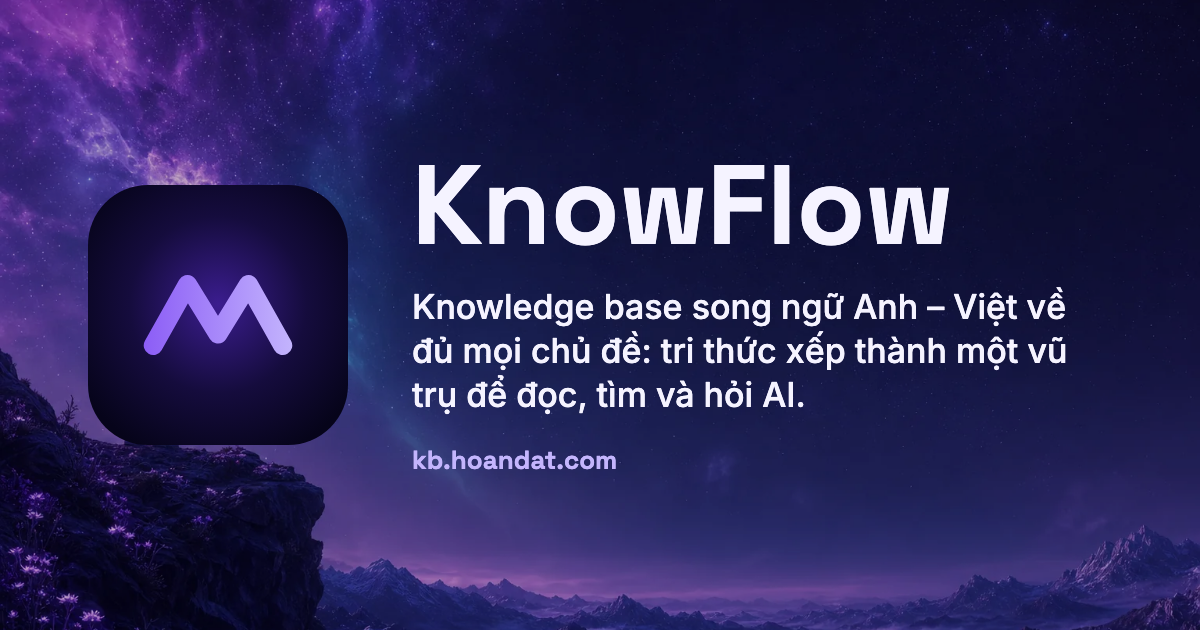
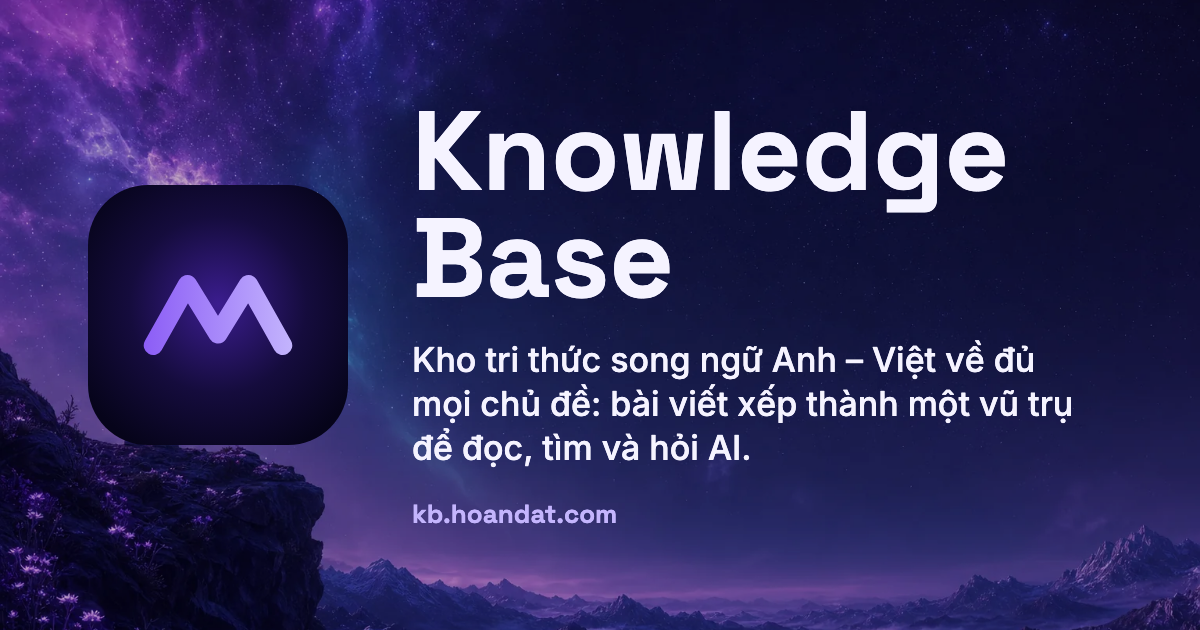
feat: call the app Knowledge Base instead of KnowFlow
The owner found the KnowFlow name awkward; the app now goes by a plain
"Knowledge Base" (short name "Knowledge"). The mark stays until it is redrawn.
Sentences that would repeat the name ("Knowledge Base · knowledge base") now say
"kho tri thức" / "library", and the Copilot prompts no longer name the app.

Changed region(s): [[0.3392, 0.181, 0.8942, 0.754], [0.3392, 0.7841, 0.5242, 0.8444]]

diff --git a/apps/web/src/pages/office-messages.ts b/apps/web/src/pages/office-messages.ts
@@ -70,7 +70,7 @@ export const officeVi = {
   'file.errSub.too-large': 'Tối đa {max} MB mỗi tệp',
   'file.errSub.unsupported-type': 'Chỉ nhận docx, xlsx, pptx, pdf, md',
   'file.errSub.wrong-content': 'Tên tệp và nội dung không khớp',
-  'file.errSub.encrypted': 'KnowFlow không mở được tệp đã khoá',
+  'file.errSub.encrypted': '{app} không mở được tệp đã khoá',
   'file.errSub.network': 'Kết nối bị ngắt khi đang gửi',
   'file.errSub.other': 'Máy chủ trả lỗi',
   'file.fix.network': 'kiểm tra mạng rồi bấm Thử lại',
@@ -95,7 +95,7 @@ export const officeVi = {
   'import.none.title': 'Không có tệp nào ở trạng thái này',
   'import.none.text': 'Chọn bộ lọc khác hoặc thả thêm tệp bên phải.',
   'import.empty.title': 'Chưa nhập tệp nào',
-  'import.empty.text': 'Thả tệp vào khung bên phải để KnowFlow đọc và lập chỉ mục.',
+  'import.empty.text': 'Thả tệp vào khung bên phải để {app} đọc và lập chỉ mục.',
   'import.loading': 'Đang tải danh sách tệp…',
   'import.failedLoad': 'Chưa tải được danh sách tệp.',
   'import.offline': 'Đang offline · danh sách sẽ cập nhật khi có mạng.',
@@ -144,7 +144,7 @@ export const officeVi = {
   'import.sugTag': '{tag}',
   'import.sugFailed': 'Chưa áp dụng được gợi ý. Thử lại.',
   'import.indexNoteTitle': 'Về bước "Lập chỉ mục":',
-  'import.indexNote': 'KnowFlow không tạo vector embedding. Tệp được lập chỉ mục từ khoá (phân biệt dấu) và Jev đọc để tìm theo nghĩa khi bạn hỏi.',
+  'import.indexNote': '{app} không tạo vector embedding. Tệp được lập chỉ mục từ khoá (phân biệt dấu) và Jev đọc để tìm theo nghĩa khi bạn hỏi.',
 
   'fail.too-large': 'Tệp quá lớn',
   'fail.encrypted': 'Không đọc được cấu trúc: tệp có mật khẩu.',
@@ -327,7 +327,7 @@ export const officeEn: Record<OfficeMessageKey, string> = {
   'file.errSub.too-large': 'At most {max} MB per file',
   'file.errSub.unsupported-type': 'Only docx, xlsx, pptx, pdf, md',
   'file.errSub.wrong-content': 'The name and the content do not match',
-  'file.errSub.encrypted': 'KnowFlow cannot open a locked file',
+  'file.errSub.encrypted': '{app} cannot open a locked file',
   'file.errSub.network': 'The connection dropped while sending',
   'file.errSub.other': 'The server answered with an error',
   'file.fix.network': 'check the connection, then press Retry',
@@ -352,7 +352,7 @@ export const officeEn: Record<OfficeMessageKey, string> = {
   'import.none.title': 'No file in this state',
   'import.none.text': 'Pick another filter or drop more files on the right.',
   'import.empty.title': 'Nothing imported yet',
-  'import.empty.text': 'Drop files on the right for KnowFlow to read and index them.',
+  'import.empty.text': 'Drop files on the right for {app} to read and index them.',
   'import.loading': 'Loading your files…',
   'import.failedLoad': 'Could not load your files.',
   'import.offline': 'Offline · the list updates once you are back online.',
@@ -401,7 +401,7 @@ export const officeEn: Record<OfficeMessageKey, string> = {
   'import.sugTag': '{tag}',
   'import.sugFailed': 'Could not apply the suggestion. Try again.',
   'import.indexNoteTitle': 'About "Index":',
-  'import.indexNote': 'KnowFlow makes no vector embeddings. Files are indexed by keyword (accent-aware) and Jev reads them to search by meaning when you ask.',
+  'import.indexNote': '{app} makes no vector embeddings. Files are indexed by keyword (accent-aware) and Jev reads them to search by meaning when you ask.',
 
   'fail.too-large': 'The file is too large',
   'fail.encrypted': 'Could not read the structure: the file has a password.',

diff --git a/apps/web/e2e/parity-screens.ts b/apps/web/e2e/parity-screens.ts
@@ -150,7 +150,8 @@ export const PARITY_SCREENS: readonly ParityScreen[] = [
   { board: 'F03-Keys', path: '/settings/keys', signedIn: true, status: 'built', mocks: ['keys-f03'], clock: F03_CLOCK },
   { board: 'F04-Translate', path: `/d/${F04_DOCUMENT_ID}/translate`, signedIn: true, status: 'built', mocks: ['translate-f04'] },
   // Copilot (C14) asked from the DHCP text about the Space, its answer finished; its eight states (F02) side by side.
-  { board: 'C14-Copilot', path: C14_PATH, signedIn: true, status: 'built', mocks: ['copilot-c14'], clock: F03_CLOCK, waitFor: '[data-id="copilot-screen"][data-state="done"]' },
+  // maxDiff: the app's name (Knowledge Base) is longer than the board's KnowFlow, docs/mock-deviations.md.
+  { board: 'C14-Copilot', path: C14_PATH, signedIn: true, status: 'built', maxDiff: 0.035, mocks: ['copilot-c14'], clock: F03_CLOCK, waitFor: '[data-id="copilot-screen"][data-state="done"]' },
   // The Graph of Networking from the seed's documents and links, DHCP picked (its neighbours lit, the panel open).
   // maxDiff: d3-force places the real graph's nodes, not the board's hand-placed 20; docs/mock-deviations.md.
   {
@@ -196,7 +197,8 @@ export const PARITY_SCREENS: readonly ParityScreen[] = [
   // signed out (H02).
   // maxDiff: no review gate since 07/11/2026 (docs/mock-deviations.md).
   { board: 'C04-Publish', path: `/d/${PUBLISH_DOCUMENT_ID}/publish`, signedIn: true, status: 'built', maxDiff: 0.045, mocks: ['publish-c04'], waitFor: '[data-id="publish-card"]' },
-  { board: 'C05-Preview', path: `/d/${PUBLISH_DOCUMENT_ID}/preview`, signedIn: true, status: 'built', mocks: ['publish-c04'], waitFor: '[data-id="preview-stage"]' },
+  // maxDiff: the app's name (Knowledge Base) is longer than the board's KnowFlow, docs/mock-deviations.md.
+  { board: 'C05-Preview', path: `/d/${PUBLISH_DOCUMENT_ID}/preview`, signedIn: true, status: 'built', maxDiff: 0.035, mocks: ['publish-c04'], waitFor: '[data-id="preview-stage"]' },
   // maxDiff: the people's orbs are deeper than the board's so their white initials read AA; docs/mock-deviations.md.
   { board: 'C18-Share', path: `/d/${C13_DHCP_ID}/share`, signedIn: true, status: 'built', maxDiff: 0.035, mocks: ['share-c18'], clock: C18_CLOCK, waitFor: '[data-id="share-history"]' },
   // maxDiff: the sections are a list of full names, not the board's row of chips; docs/mock-deviations.md.
@@ -227,6 +229,8 @@ export const PARITY_SCREENS: readonly ParityScreen[] = [
     path: `/journey/${JOURNEY_ID}/edit`,
     signedIn: true,
     status: 'built',
+    // maxDiff: the app's name (Knowledge Base) is longer than the board's KnowFlow, docs/mock-deviations.md.
+    maxDiff: 0.035,
     mocks: ['journey-c07'],
     click: '[aria-label="Chọn bước 2"]',
     waitFor: '[data-id="journey-jev"][data-state="ready"] ~ [data-id="journey-pool"][data-state="ready"]',
@@ -240,7 +244,8 @@ export const PARITY_SCREENS: readonly ParityScreen[] = [
   // Boards that show every state of a screen side by side, built from the screens' own components.
   { board: 'S02-Login', path: '/dev/kit/sign-in', signedIn: false, status: 'built' },
   { board: 'X02-Errors', path: '/dev/kit/errors', signedIn: false, status: 'built' },
-  { board: 'F02-CopilotStates', path: '/dev/kit/copilot-states', signedIn: false, status: 'built' },
+  // maxDiff: the app's name (Knowledge Base) is longer than the board's KnowFlow, docs/mock-deviations.md.
+  { board: 'F02-CopilotStates', path: '/dev/kit/copilot-states', signedIn: false, status: 'built', maxDiff: 0.035 },
   // The documentation boards.
   { board: 'Z01-Sitemap', path: '/dev/kit/sitemap', signedIn: false, status: 'built' },
   { board: 'Z02-Spatial3D', path: '/dev/kit/spatial', signedIn: false, status: 'built' },

diff --git a/apps/web/src/pages/legal-docs.ts b/apps/web/src/pages/legal-docs.ts
@@ -46,7 +46,7 @@ const UPDATED = { vi: 'Cập nhật ngày 05/11/2026', en: 'Last updated 5 Novem
 const PRIVACY_VI: LegalDoc = {
   title: 'Quyền riêng tư',
   updated: UPDATED.vi,
-  intro: `{app} (${host}) là knowledge base song ngữ Anh – Việt của hệ sinh thái ${account}, do một nhà phát triển độc lập vận hành. Trang này nói rõ app giữ gì, gửi gì đi đâu, giữ bao lâu và cách bạn xoá dữ liệu của mình.`,
+  intro: `{app} (${host}) là kho tri thức song ngữ Anh – Việt của hệ sinh thái ${account}, do một nhà phát triển độc lập vận hành. Trang này nói rõ app giữ gì, gửi gì đi đâu, giữ bao lâu và cách bạn xoá dữ liệu của mình.`,
   sections: [
     {
       id: 'account',
@@ -176,7 +176,7 @@ const PRIVACY_VI: LegalDoc = {
 const PRIVACY_EN: LegalDoc = {
   title: 'Privacy',
   updated: UPDATED.en,
-  intro: `{app} (${host}) is a bilingual English – Vietnamese knowledge base of the ${account} ecosystem, run by an independent developer. This page says what the app keeps, what it sends where, for how long, and how you delete your data.`,
+  intro: `{app} (${host}) is a bilingual English – Vietnamese library of the ${account} ecosystem, run by an independent developer. This page says what the app keeps, what it sends where, for how long, and how you delete your data.`,
   sections: [
     {
       id: 'account',
@@ -306,7 +306,7 @@ const PRIVACY_EN: LegalDoc = {
 const TERMS_VI: LegalDoc = {
   title: 'Điều khoản sử dụng',
   updated: UPDATED.vi,
-  intro: `{app} (${host}) là knowledge base miễn phí, không quảng cáo. Dùng app nghĩa là bạn đồng ý với các điều dưới đây và với cách app xử lý dữ liệu ở trang Quyền riêng tư.`,
+  intro: `{app} (${host}) là kho tri thức miễn phí, không quảng cáo. Dùng app nghĩa là bạn đồng ý với các điều dưới đây và với cách app xử lý dữ liệu ở trang Quyền riêng tư.`,
   sections: [
     {
       id: 'account',
@@ -366,7 +366,7 @@ const TERMS_VI: LegalDoc = {
 const TERMS_EN: LegalDoc = {
   title: 'Terms of use',
   updated: UPDATED.en,
-  intro: `{app} (${host}) is a free knowledge base with no ads. By using it you agree to the terms below and to how the app handles data as the Privacy page describes.`,
+  intro: `{app} (${host}) is a free library with no ads. By using it you agree to the terms below and to how the app handles data as the Privacy page describes.`,
   sections: [
     {
       id: 'account',

diff --git a/apps/server/src/share/og-page.test.ts b/apps/server/src/share/og-page.test.ts
@@ -65,7 +65,7 @@ describe('the share link page', () => {
     const { status, html, res } = await page(token);
     expect(status).toBe(200);
     expect(res.headers.get('content-type')).toMatch(/^text\/html/);
-    const title = `${escapeHtml(TRICKY_TITLE)} · KnowFlow`;
+    const title = `${escapeHtml(TRICKY_TITLE)} · Knowledge Base`;
     const url = `${server.origin}/l/${token}`;
     expect(metaContent(html, 'property', 'og:title')).toEqual([title]);
     expect(metaContent(html, 'property', 'og:url')).toEqual([url]);
@@ -79,7 +79,7 @@ describe('the share link page', () => {
     expect(html.split(token).length - 1).toBe(2);
     expect(html).toContain('<div id="root"></div>');
     // English on ?lang=en.
-    expect(metaContent((await page(token, '?lang=en')).html, 'property', 'og:description')[0]).toMatch(/^A text shared on KnowFlow/);
+    expect(metaContent((await page(token, '?lang=en')).html, 'property', 'og:description')[0]).toMatch(/^A text shared on the bilingual English – Vietnamese Knowledge Base/);
   });
 
   it('is no opening: fetching the preview logs nothing', async () => {
@@ -106,7 +106,7 @@ describe('the share link page', () => {
       // The author's own session changes nothing: the preview is what anyone with the link sees.
       const res = await fetch(`${server.origin}/l/${hiddenToken}`, { headers: { cookie: owner } });
       expect(await res.text()).toBe(generic);
-      expect(metaContent(generic, 'property', 'og:title')).toEqual(['KnowFlow · knowledge base song ngữ Anh – Việt']);
+      expect(metaContent(generic, 'property', 'og:title')).toEqual(['Knowledge Base · song ngữ Anh – Việt']);
     } finally {
       await json(await api(server, `/api/moderation/documents/${DHCP}`, { method: 'PATCH', cookie: admin, body: JSON.stringify({ hidden: false }) }));
     }

diff --git a/apps/server/src/copilot/answer-prompt.ts b/apps/server/src/copilot/answer-prompt.ts
@@ -37,11 +37,11 @@ function taskLine(task: CopilotTask, hasQuestion: boolean, answerLanguage: Answe
   const language = `Write the whole answer in ${name}, the language of the ${hasQuestion ? 'question' : 'selected passage'}, even where the sources are in another language (translate what you take from them).`;
   switch (task) {
     case 'answer':
-      return `You are KnowFlow Copilot, answering a question from a knowledge base. ${language}`;
+      return `You are the Copilot of a knowledge base, answering a question from it. ${language}`;
     case 'explain':
-      return `You are KnowFlow Copilot. Explain the selected passage simply, for a learner, in a few sentences${hasQuestion ? ', with the question in mind' : ''}. ${language}`;
+      return `You are the Copilot of a knowledge base. Explain the selected passage simply, for a learner, in a few sentences${hasQuestion ? ', with the question in mind' : ''}. ${language}`;
     case 'summarize':
-      return `You are KnowFlow Copilot. Summarize the selected passage in two to four sentences${hasQuestion ? ', with the question in mind' : ''}. ${language}`;
+      return `You are the Copilot of a knowledge base. Summarize the selected passage in two to four sentences${hasQuestion ? ', with the question in mind' : ''}. ${language}`;
   }
 }
 

diff --git a/apps/server/src/share/og-page.ts b/apps/server/src/share/og-page.ts
@@ -38,8 +38,8 @@ export const PAGE_PERMISSIONS = 'camera=(), microphone=(), geolocation=()';
 type PreviewLocale = 'vi' | 'en';
 
 const PREVIEW_TEXT: Record<PreviewLocale, { title: (doc: string) => string; description: string }> = {
-  vi: { title: (doc) => `${doc} · ${brandConfig.appName}`, description: `Một bài được chia sẻ trên ${brandConfig.appName} · knowledge base song ngữ Anh – Việt` },
-  en: { title: (doc) => `${doc} · ${brandConfig.appName}`, description: `A text shared on ${brandConfig.appName} · a bilingual English – Vietnamese knowledge base` },
+  vi: { title: (doc) => `${doc} · ${brandConfig.appName}`, description: `Một bài được chia sẻ trên ${brandConfig.appName} song ngữ Anh – Việt` },
+  en: { title: (doc) => `${doc} · ${brandConfig.appName}`, description: `A text shared on the bilingual English – Vietnamese ${brandConfig.appName}` },
 };
 
 const HTML_ESCAPES: Record<string, string> = { '&': '&amp;', '<': '&lt;', '>': '&gt;', '"': '&quot;', "'": '&#39;' };

diff --git a/apps/server/src/files/sniff.ts b/apps/server/src/files/sniff.ts
@@ -17,7 +17,7 @@ const ZIP_CENTRAL = 0x02014b50;
 const OLE_MAGIC = Buffer.from([0xd0, 0xcf, 0x11, 0xe0, 0xa1, 0xb1, 0x1a, 0xe1]);
 /** End-of-central-directory record (22 bytes) plus the longest zip comment. */
 const ZIP_TAIL = 22 + 0xffff;
-/** A central directory this large is no Office file KnowFlow takes (25 MB files have a few hundred parts). */
+/** A central directory this large is no Office file Knowledge Base takes (25 MB files have a few hundred parts). */
 const MAX_CENTRAL_BYTES = 4 * 1024 * 1024;
 const TEXT_CHUNK = 64 * 1024;
 
@@ -85,7 +85,7 @@ async function isPlainText(file: Handle, size: number): Promise<boolean> {
   return true;
 }
 
-/** What the file at `filePath` (of `size` bytes) is; null when it is none of the kinds KnowFlow takes. */
+/** What the file at `filePath` (of `size` bytes) is; null when it is none of the kinds Knowledge Base takes. */
 export async function sniffFile(filePath: string, size: number): Promise<Sniffed> {
   const file = await open(filePath, 'r');
   try {

diff --git a/apps/server/src/files/file-kinds.ts b/apps/server/src/files/file-kinds.ts
@@ -1,5 +1,5 @@
 /**
- * The five kinds of file KnowFlow stores (docx, xlsx, pptx, pdf, md; decided 04/11/2026): the extension a name must
+ * The five kinds of file Knowledge Base stores (docx, xlsx, pptx, pdf, md; decided 04/11/2026): the extension a name must
  * carry, the MIME type stored for it, and which kinds the Office editor opens. The content itself is checked by
  * sniff.ts: a name only says what the content must turn out to be.
  */
@@ -25,7 +25,7 @@ export function kindOfName(name: string): FileKind | null {
   return match?.[1] ? (EXTENSIONS[match[1].toLowerCase()] ?? null) : null;
 }
 
-/** The kind of a stored MIME type (parameters aside); null for one KnowFlow does not store. */
+/** The kind of a stored MIME type (parameters aside); null for one Knowledge Base does not store. */
 export function kindOfMime(mime: string): FileKind | null {
   const base = mime.split(';')[0]?.trim().toLowerCase() ?? '';
   return FILE_KINDS.find((kind) => MIME_OF[kind].split(';')[0] === base) ?? null;

diff --git a/apps/web/src/pages/legal-page.test.tsx b/apps/web/src/pages/legal-page.test.tsx
@@ -70,7 +70,7 @@ describe('the privacy page', () => {
   it('fills in the brand words and leaves no placeholder', () => {
     renderWithI18n(<LegalPage kind="privacy" />);
     const text = document.body.textContent ?? '';
-    expect(text).toContain('KnowFlow (kb.hoandat.com)');
+    expect(text).toContain('Knowledge Base (kb.hoandat.com)');
     expect(text).not.toMatch(/\{\w+\}/);
   });
 
@@ -118,7 +118,7 @@ describe('the privacy page', () => {
     meta.content = 'the app';
     document.head.append(meta);
     const { unmount } = renderWithI18n(<LegalPage kind="privacy" />);
-    expect(meta.content).toMatch(/^KnowFlow \(kb\.hoandat\.com\) is a bilingual/);
+    expect(meta.content).toMatch(/^Knowledge Base \(kb\.hoandat\.com\) is a bilingual/);
     act(() => unmount());
     expect(meta.content).toBe('the app');
   });

diff --git a/apps/web/src/pages/office-store.ts b/apps/web/src/pages/office-store.ts
@@ -43,7 +43,7 @@ export interface OfficeEntry {
   conflict: (ServerVersion & { bytes: ArrayBuffer | null }) | null;
 }
 
-/** Share of the browser's quota KnowFlow may use. */
+/** Share of the browser's quota Knowledge Base may use. */
 export const USABLE_SHARE = 0.8;
 /** Share of that past which H04 warns. */
 export const NEAR_SHARE = 0.9;
@@ -198,7 +198,7 @@ export async function resetOfficeStore(): Promise<void> {
 }
 
 export interface StorageStatus {
-  /** Bytes this origin uses, and what KnowFlow may use of the quota; null when the browser does not tell. */
+  /** Bytes this origin uses, and what Knowledge Base may use of the quota; null when the browser does not tell. */
   usage: number | null;
   usable: number | null;
   /** Past NEAR_SHARE of what may be used: H04 warns. */

diff --git a/apps/server/src/extract/classifier.ts b/apps/server/src/extract/classifier.ts
@@ -2,7 +2,7 @@
  * The "Jev phân loại" step of C16: where an uploaded file probably belongs, for its owner to accept or not. One Jev
  * call: a `choice` of Collection among those of the owner's visible Spaces (or none), and one `noul` per candidate
  * tag. Candidate tags come from the text itself: the technical terms it keeps using (acronyms such as DNS, names such
- * as Kubernetes written mid-sentence), since KnowFlow has no tag vocabulary of its own. Runs for everyone on the
+ * as Kubernetes written mid-sentence), since Knowledge Base has no tag vocabulary of its own. Runs for everyone on the
  * server's Jev key; the owner's own AI key is never involved.
  */
 import type { CollectionOption } from '../access/extraction';

diff --git a/apps/web/vite-brand.ts b/apps/web/vite-brand.ts
@@ -93,7 +93,7 @@ export function renderIndexHtml(html: string, brand: KbBrand): string {
     `<link rel="canonical" href="${origin}/" />`,
     `<meta property="og:type" content="website" />`,
     `<meta property="og:site_name" content="${escapeHtml(brand.appName)}" />`,
-    `<meta property="og:title" content="${escapeHtml(brand.appName)} · knowledge base song ngữ Anh – Việt" />`,
+    `<meta property="og:title" content="${escapeHtml(brand.appName)} · song ngữ Anh – Việt" />`,
     `<meta property="og:description" content="${description}" />`,
     `<meta property="og:url" content="${origin}/" />`,
     `<meta property="og:locale" content="vi_VN" />`,
